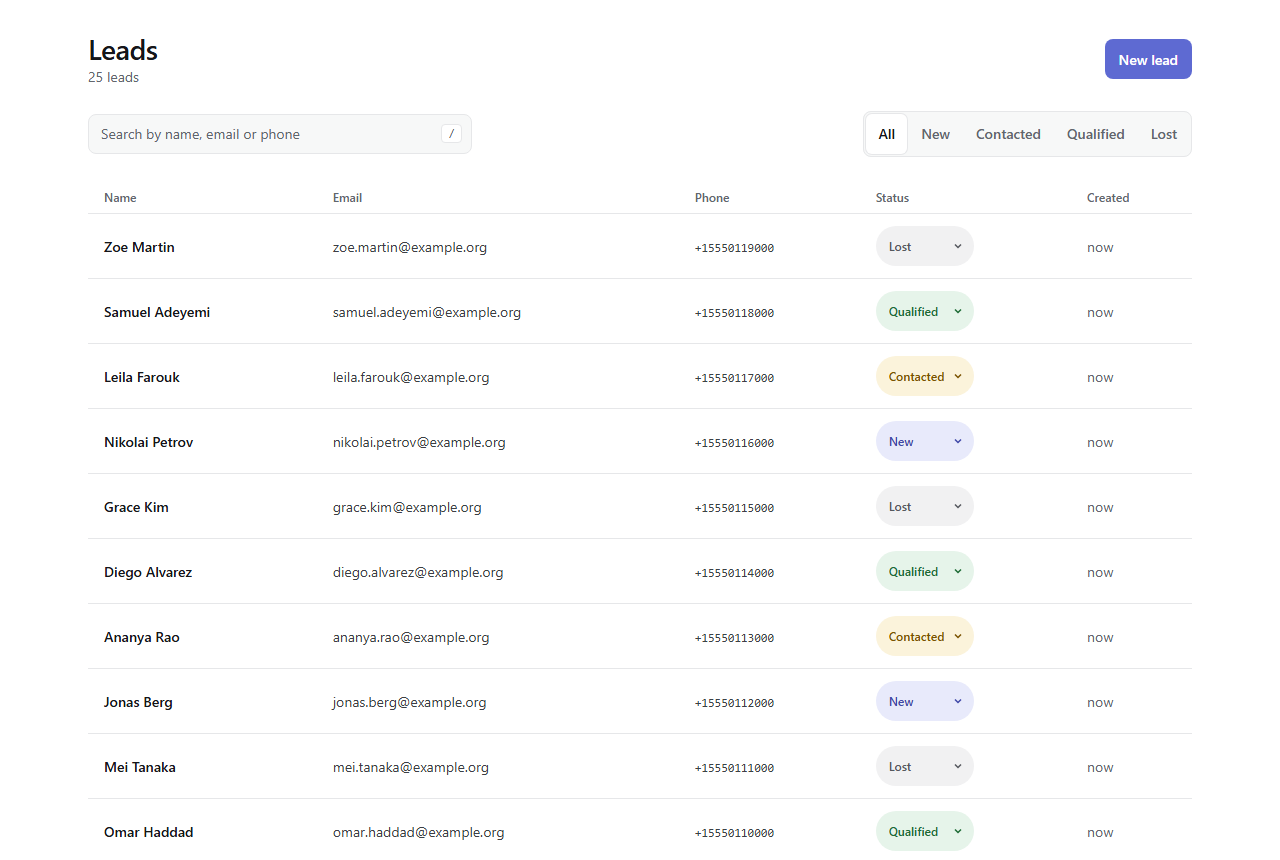
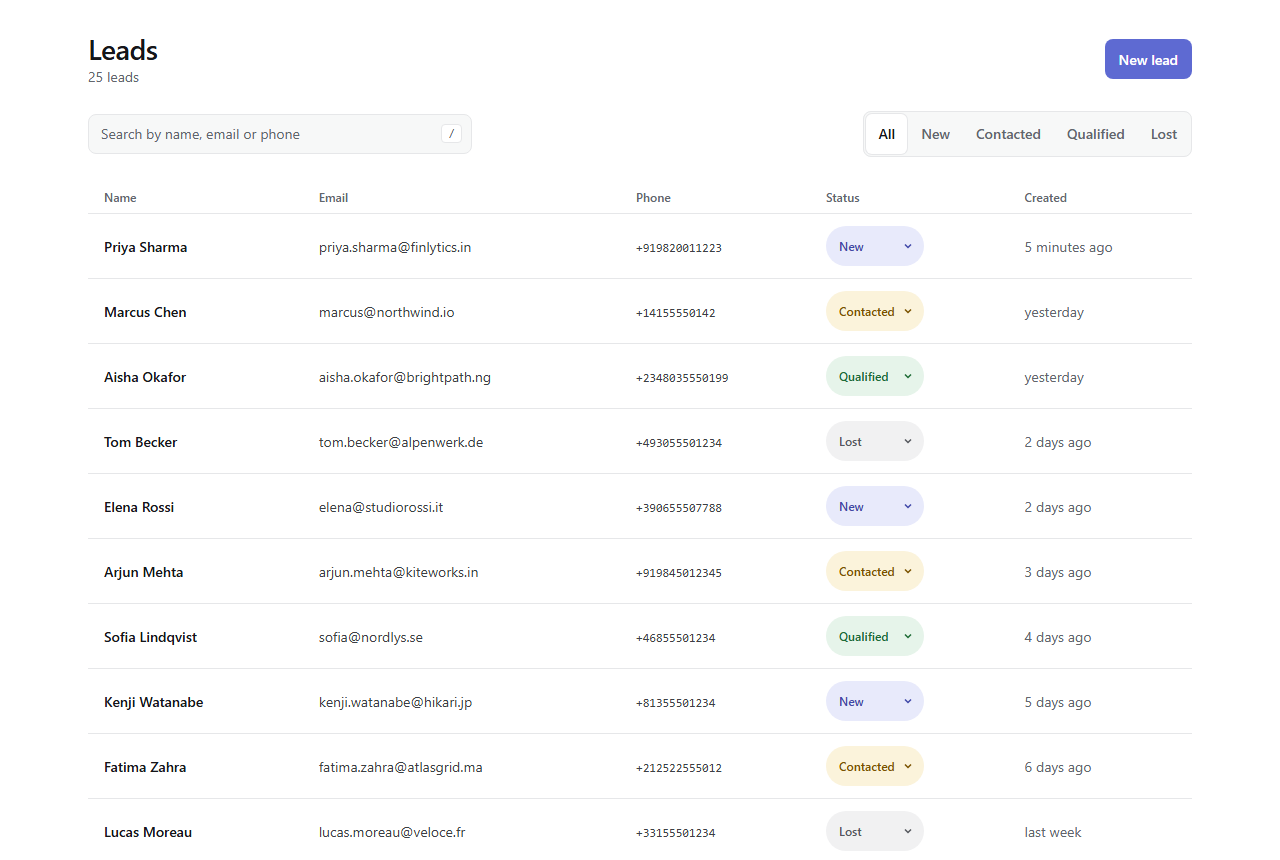
docs: write README with architecture, setup, deployment and trade-offs

diff --git a/README.md b/README.md
@@ -1,3 +1,281 @@
 # Lead Tracker
 
-A small CRM-style tracker to create, list, search and update the status of sales leads.
+[![CI](https://github.com/i-sayankh/lead-tracker/actions/workflows/ci.yml/badge.svg)](https://github.com/i-sayankh/lead-tracker/actions/workflows/ci.yml)
+
+A small CRM-style lead tracker: create leads, list them newest first, search by name, email or phone, filter by status, and move a lead through the pipeline with an inline status change. React + TypeScript on the front, FastAPI + PostgreSQL on the back, with request and response types generated end to end from one source.
+
+**Live links**
+
+| | URL |
+|---|---|
+| App | https://lead-tracker-mauve.vercel.app |
+| API docs (Swagger UI) | https://lead-tracker-orv1.onrender.com/docs |
+| API docs (ReDoc) | https://lead-tracker-orv1.onrender.com/redoc |
+| Health check | https://lead-tracker-orv1.onrender.com/api/v1/health |
+
+> The API runs on Render's free tier, which sleeps when idle. The first request after a quiet period can take up to about 50 seconds; the app shows a "waking up the server" notice while it waits.
+
+## Screenshots
+
+| Desktop | Mobile (375px) |
+|---|---|
+| ![Lead list on desktop](docs/screenshots/app-desktop.png) | ![Lead list on mobile](docs/screenshots/app-mobile.png) |
+
+| Swagger UI | ReDoc |
+|---|---|
+| ![Swagger UI for POST /api/v1/leads](docs/screenshots/swagger.png) | ![ReDoc for POST /api/v1/leads](docs/screenshots/redoc.png) |
+
+## Features
+
+- **Create lead** in a dialog with Name, Email, Phone and Status. Validation runs in the browser (on blur and on submit) and again on the server; server errors are shown under the matching field, and a duplicate email (compared case-insensitively) shows "A lead with this email already exists".
+- **List leads** newest first, 20 per page, with "Showing 21–40 of 57" pagination.
+- **Search** by any part of a name, email or phone number. Case-insensitive, debounced (300 ms), and previous requests are cancelled so results never arrive out of order. Phone search ignores spaces, dashes, dots and parentheses, so `98200 11223` finds `+919820011223`. Press `/` to jump to the search box.
+- **Filter by status** (All, New, Contacted, Qualified, Lost), combinable with search.
+- **Update status inline** from a status pill in each row. The change shows immediately, the row's control is disabled while saving, and it rolls back with an error toast if the server rejects it.
+- **Shareable views**: search, filter and page live in the URL (`?q=acme&status=qualified&page=2`) and survive a refresh.
+- **Clear states** for loading (skeleton rows), an empty database, no search results, errors (with Retry), and a free-tier cold start.
+- **Accessible and responsive**: labelled controls, visible focus rings, text labels on every status color, contrast ≥ 4.5:1, all controls at least 40px tall, a skip link, `prefers-reduced-motion`, light and dark themes following the OS, and a stacked card layout below 640px.
+
+## Architecture
+
+```mermaid
+flowchart LR
+    B[Browser] -->|HTTPS| V["Vercel<br/>React SPA (static)"]
+    B -->|"fetch /api/v1/... (CORS)"| R["Render<br/>FastAPI + Uvicorn"]
+    R -->|"SQLAlchemy 2.0<br/>psycopg 3, TLS"| N[("Neon<br/>PostgreSQL")]
+```
+
+The browser loads the static single-page app from Vercel and calls the API on Render directly. CORS on the API allows only the listed front-end origins. The API talks to Postgres on Neon, and Alembic migrations run on every deploy before the server starts.
+
+### Repository layout
+
+```
+lead-tracker/
+├── backend/                  FastAPI service (deployed to Render)
+│   ├── app/
+│   │   ├── main.py           app factory: metadata, CORS, middleware, routers
+│   │   ├── config.py         settings from environment (pydantic-settings)
+│   │   ├── db.py             engine, session, get_db dependency
+│   │   ├── models.py         SQLAlchemy model: Lead
+│   │   ├── schemas.py        every Pydantic request/response model
+│   │   ├── errors.py         error codes, error envelope, handlers, OpenAPI error docs
+│   │   ├── services.py       create, list/search, update status
+│   │   ├── routers/          leads.py, health.py
+│   │   └── export_openapi.py writes backend/openapi.json
+│   ├── alembic/              hand-written migration
+│   ├── scripts/seed.py       idempotent demo data
+│   ├── tests/                pytest against real Postgres
+│   └── openapi.json          generated; CI fails if it is stale
+├── frontend/                 React + Vite + TypeScript (deployed to Vercel)
+│   ├── DESIGN.md             design system (Linear, adapted for this app)
+│   └── src/
+│       ├── api/schema.d.ts   generated from backend/openapi.json
+│       ├── api/client.ts     typed fetch wrapper + ApiError
+│       ├── hooks/            useLeads, useUrlState, useDebouncedValue, useToasts
+│       ├── components/       LeadForm, LeadTable, StatusSelect, Toolbar, Pagination, Toasts, EmptyState
+│       └── __tests__/        Vitest + Testing Library
+├── .github/workflows/ci.yml
+├── docker-compose.yml        local Postgres only
+└── render.yaml               Render Blueprint
+```
+
+### Type-safety chain
+
+The backend's Pydantic schemas are the single source of truth for every request and response:
+
+1. `backend/app/schemas.py` and `errors.py` define the models, with descriptions and examples on every field.
+2. FastAPI turns them into an OpenAPI 3.1 spec, exported to `backend/openapi.json`.
+3. `openapi-typescript` generates `frontend/src/api/schema.d.ts` from that file.
+4. `frontend/src/api/client.ts` takes its types (`Lead`, `LeadCreate`, `LeadStatus`, `ErrorCode`, …) from the generated file. No API types are written by hand.
+
+CI regenerates both files and fails if either differs from what is committed, so a backend change that affects the API cannot land without the frontend types being updated.
+
+### Error envelope
+
+Every non-2xx response has the same shape, and clients branch on `error.code`:
+
+```json
+{
+  "error": {
+    "code": "LEAD_EMAIL_CONFLICT",
+    "message": "A lead with email 'jane@acme.com' already exists.",
+    "details": [{ "field": "body.email", "message": "Email already exists", "type": "conflict" }]
+  }
+}
+```
+
+`details` lists each invalid field for validation (422) and conflict (409) errors and is `null` otherwise. Unexpected errors return `500 INTERNAL_ERROR` without exception text (the traceback is logged server-side) and still carry CORS headers, so the browser can read them.
+
+| Status | `code` |
+|---|---|
+| 404 | `LEAD_NOT_FOUND`, `ROUTE_NOT_FOUND` |
+| 405 | `METHOD_NOT_ALLOWED` |
+| 409 | `LEAD_EMAIL_CONFLICT` |
+| 422 | `VALIDATION_ERROR` |
+| 500 | `INTERNAL_ERROR` |
+| 503 | `SERVICE_UNAVAILABLE` |
+
+### API summary
+
+All routes are under `/api/v1`. Full schemas, parameter bounds and named examples for every error are in [Swagger UI](https://lead-tracker-orv1.onrender.com/docs) and [ReDoc](https://lead-tracker-orv1.onrender.com/redoc).
+
+| Method | Path | Success | Errors |
+|---|---|---|---|
+| `POST` | `/leads` | `201` Lead | `409` duplicate email, `422` invalid body, `500` |
+| `GET` | `/leads?q=&status=&limit=&offset=` | `200` page of leads + `total` | `422` invalid query, `500` |
+| `PATCH` | `/leads/{lead_id}/status` | `200` updated Lead | `404` unknown lead, `422` invalid id or body, `500` |
+| `GET` | `/health` | `200` `{"status":"ok","database":"ok"}` | `503` database unreachable |
+
+Lead fields: `id` (UUID), `name` (1–100 chars), `email` (unique, stored lowercase), `phone` (stored normalized: optional `+` and 7–15 digits), `status` (`new` \| `contacted` \| `qualified` \| `lost`, default `new`), `created_at` (ISO 8601 with offset). `limit` is 1–100 (default 20) and `offset` is 0–1,000,000.
+
+## Tech stack
+
+| Layer | Choice | Why |
+|---|---|---|
+| API | FastAPI 0.141 | Typed request/response models, generated OpenAPI, dependency injection for the DB session |
+| Validation | Pydantic 2 + `email-validator` | One set of models validates input, serializes output and documents the API |
+| ORM / migrations | SQLAlchemy 2.0 (sync) + Alembic | Typed `Mapped[...]` models; migrations written by hand for the native enum |
+| Database | PostgreSQL 16 (Neon in production) | Native enum, `gen_random_uuid()`, `TIMESTAMPTZ`, `ILIKE`; Neon's free tier doesn't expire |
+| Driver | psycopg 3 | Current Postgres driver for SQLAlchemy 2 |
+| Backend tooling | uv, ruff, mypy (strict), pytest | Locked, reproducible installs; lint, format and type checks in CI |
+| Frontend | React 19 + TypeScript (strict, `noUncheckedIndexedAccess`) + Vite 8 | Fast builds; strict types catch missing-data cases |
+| Styling | Tailwind CSS v4 with design tokens as CSS variables | Tokens from `frontend/DESIGN.md`; light and dark themes from one set of variables |
+| API types | openapi-typescript | Frontend types generated from the backend spec |
+| Frontend tests | Vitest + Testing Library + jsdom | Tests run against rendered components with `fetch` mocked |
+| Frontend lint | oxlint | Default linter of the current Vite template; includes React hooks rules |
+| Hosting | Vercel (frontend), Render (API), Neon (DB) | Free tiers that deploy from a subdirectory of one repository |
+
+No router, state-management, UI-kit, date or toast library: the app is a single screen, dates use `Intl`, and toasts are a small component plus a hook (about 85 lines).
+
+## Setup instructions (local)
+
+**Prerequisites:** Git, Docker (for the local database), Python 3.12, [uv](https://docs.astral.sh/uv/) (`pip install uv`), Node.js 22 or newer.
+
+```bash
+git clone https://github.com/i-sayankh/lead-tracker.git
+cd lead-tracker
+
+# 1. Database: Postgres 16 on localhost:5432 with databases "leads" and "leads_test"
+docker compose up -d db
+```
+
+**Backend** (in a first terminal):
+
+```bash
+cd backend
+uv sync                              # creates .venv with runtime + dev dependencies
+cp .env.example .env                 # points at the local "leads" database
+uv run alembic upgrade head          # creates the leads table
+uv run python -m scripts.seed        # optional: 25 demo leads
+uv run uvicorn app.main:app --reload # http://localhost:8000/docs
+```
+
+**Frontend** (in a second terminal):
+
+```bash
+cd frontend
+npm ci
+cp .env.example .env                 # VITE_API_BASE_URL=http://localhost:8000
+npm run dev                          # http://localhost:5173
+```
+
+**Running the tests and checks**
+
+```bash
+# backend (needs the docker database; uses the separate leads_test database)
+cd backend
+uv run pytest
+uv run ruff check . && uv run ruff format --check .
+uv run mypy app scripts
+
+# frontend
+cd frontend
+npm test -- --run
+npm run typecheck
+npm run lint
+npm run build
+```
+
+**Regenerating the API types** after changing a backend schema or route:
+
+```bash
+cd backend && uv run python -m app.export_openapi   # writes backend/openapi.json
+cd ../frontend && npm run gen:api                   # writes src/api/schema.d.ts
+```
+
+Commit both files; CI fails if they are out of date.
+
+## Environment variables
+
+**Backend** (`backend/.env`, or the Render dashboard)
+
+| Variable | Required | Default | Description |
+|---|---|---|---|
+| `DATABASE_URL` | yes | | Postgres connection string. `postgres://` and `postgresql://` are rewritten to `postgresql+psycopg://`, so Neon and Render strings can be pasted as-is. |
+| `CORS_ORIGINS` | no | `http://localhost:5173` | Comma-separated browser origins allowed to call the API. `*` is rejected at startup. |
+| `ENVIRONMENT` | no | `development` | `development`, `test` or `production`. |
+| `TEST_DATABASE_URL` | no | `postgresql+psycopg://postgres:postgres@localhost:5432/leads_test` | Database used by `pytest`. The suite migrates it and empties the `leads` table after each test, so never point it at real data. |
+
+**Frontend** (`frontend/.env`, or the Vercel dashboard)
+
+| Variable | Required | Description |
+|---|---|---|
+| `VITE_API_BASE_URL` | yes | Base URL of the API, without a trailing slash, e.g. `https://lead-tracker-orv1.onrender.com`. The app refuses to start without it. Read at build time, so redeploy after changing it. |
+
+## Deployment steps
+
+The app runs on three free services: Neon (database), Render (API) and Vercel (frontend).
+
+1. **Neon (Postgres).** Create a project and copy the **pooled** connection string, keeping `?sslmode=require`. Neon's free tier doesn't expire; Render's free Postgres is deleted after 30 days, which is why it isn't used.
+2. **Render (API).** Either use **New → Blueprint** and select this repository (it reads `render.yaml`), or create a **Web Service** from the repository with these settings:
+
+   | Setting | Value |
+   |---|---|
+   | Root Directory | `backend` |
+   | Runtime | Python |
+   | Build Command | `pip install uv && uv sync --frozen --no-dev` |
+   | Start Command | `uv run --no-dev alembic upgrade head && uv run --no-dev uvicorn app.main:app --host 0.0.0.0 --port $PORT` |
+   | Health Check Path | `/api/v1/health` |
+
+   Environment: `PYTHON_VERSION=3.12.13`, `ENVIRONMENT=production`, `DATABASE_URL=<Neon string>`, `CORS_ORIGINS=http://localhost:5173` for now. Deploy, then check `https://<service>.onrender.com/api/v1/health` returns `{"status":"ok","database":"ok"}`.
+
+   Don't add a `requirements.txt`: Render would install from it instead of from `uv.lock`.
+3. **Vercel (frontend).** Add a new project from the repository with Root Directory `frontend` and framework preset Vite, and set `VITE_API_BASE_URL=https://<service>.onrender.com`. After deploying, use the project's **production domain** (Settings → Domains). The per-deployment URLs are behind Vercel Authentication by default and show visitors a login page.
+4. **Connect them.** On Render, set `CORS_ORIGINS` to the Vercel production URL (add `,http://localhost:5173` if you want to run the frontend locally against production). Saving triggers a redeploy.
+5. **Demo data (optional).** Run `uv run python -m scripts.seed` locally with `DATABASE_URL` set to the Neon string. Re-running it skips leads that already exist.
+
+Both services redeploy automatically when `main` changes.
+
+## Testing
+
+| Suite | Count | What it covers |
+|---|---|---|
+| Backend, pytest against real PostgreSQL | 59 tests | Create (all fields, lowercasing and phone normalization, case-insensitive duplicate 409, every 422 case including malformed JSON and unknown fields); list (empty, order, pagination and `total`, search by name/email/phone, phone typed with separators, `%` and `_` matched literally, status filter, filter + search, every out-of-range parameter); status update (persistence, idempotency, 404, every 422 case); health (200, 503, 500 without leaking exception text, CORS headers on 500); settings (URL normalization, CORS parsing, `*` rejected); seed idempotency; and an **OpenAPI contract test** that fails if any operation lacks a summary, description or named error examples, if any schema field lacks a description, or if FastAPI's default `HTTPValidationError` reappears. |
+| Frontend, Vitest + Testing Library | 20 tests | API client (error envelope → `ApiError`, network failure, non-JSON responses, aborts); create form (client validation, 409 under Email, server detail mapping, trimmed payload, closes on success); status select (optimistic change, rollback + error toast); app (empty state, no-results + Clear filters, debounced search with fake timers, error state replacing stale rows, no empty-state flash while loading, filters cleared after create, late responses from a closed form ignored). |
+| CI (GitHub Actions) | every push | Backend: ruff, ruff format, mypy strict, migrations, pytest against a Postgres 16 service, OpenAPI drift check. Frontend: generated-types drift check, typecheck, lint, tests, production build. |
+| Browser (Playwright, run manually) | desktop 1280px + mobile 375px | The full flow on the live deployment: create, duplicate email, search, filter, paginate, status change surviving a reload, no control under 40px, no horizontal overflow, no console or CORS errors. |
+
+Why not SQLite for tests: `ILIKE`, native enums, `gen_random_uuid()` and `TIMESTAMPTZ` behave differently or don't exist there, so the tests run against the same database engine as production.
+
+## Trade-offs
+
+- **No authentication.** The brief doesn't ask for it, and the app assumes a single trusted operator working with demo data. Anyone with the URL can read and add leads.
+- **Synchronous SQLAlchemy.** FastAPI runs sync endpoints in a thread pool, which is plenty at this scale and simpler to write and test than the async stack.
+- **Offset pagination.** Simple, and gives "page N of M", but deep pages get slower because Postgres still walks the skipped rows. `offset` is capped at 1,000,000.
+- **`ILIKE` substring search.** A `%term%` pattern can't use a normal B-tree index, so every search scans the table. Fine for thousands of rows, not millions.
+- **Any status can move to any other status.** There is no enforced pipeline order (e.g. `lost` can go back to `new`), and setting the same status again is an idempotent success.
+- **Free-tier hosting.** Render sleeps after inactivity, so the first request can take up to ~50 s; the UI says so instead of looking broken.
+- **No delete, edit or detail page.** Kept to the four features in the brief.
+- **A status change under an active filter keeps the row in place** until the next refresh, so rows don't vanish while you're working on them. The count can be briefly stale.
+
+## Future improvements
+
+- Authentication and role-based access (e.g. admins vs. sales reps).
+- A status transition state machine, with an activity/audit history per lead (who changed what, when).
+- A `pg_trgm` GIN index for fast substring search at scale.
+- Keyset (cursor) pagination for large tables.
+- Lead detail and edit pages, and delete with undo.
+- Request IDs and structured JSON logging.
+- Rate limiting on the public API.
+- End-to-end browser tests (Playwright) in CI against a preview deployment.
+- CSV import and export.

diff --git a/AGENT.md b/AGENT.md
@@ -91,3 +91,5 @@ _To be finalized._
   - Security checklist: only `.env.example` files are tracked; no raw SQL built from input (SQLAlchemy parameters, `ILIKE` input escaped); no `dangerouslySetInnerHTML`; 500s never include exception text; CORS is an explicit allowlist with credentials off. Hardening added: `Settings` now rejects `CORS_ORIGINS` containing `*` (test first).
 - **Step 6.1 — deployment config.** `render.yaml` Blueprint (Python 3.12.13 pinned, health check `/api/v1/health`, `DATABASE_URL`/`CORS_ORIGINS` as `sync: false` secrets). Deviation from the plan's start command: `uv run --no-dev ...` instead of `uv run ...`, because `uv run` syncs the default dependency groups and would reinstall the dev tools on every boot after a `--no-dev` build; verified locally by building with `--no-dev` and checking `pytest` is absent after `uv run --no-dev`. Defect caught while preparing this step: the local virtualenv was running Python 3.14 (the `.python-version` file created by `uv init` had been deleted during scaffolding, so uv picked the newest interpreter) while CI and Render use 3.12; restored `backend/.python-version` = 3.12 and re-ran the suite on 3.12.3 (58 passed, `openapi.json` unchanged). No `vercel.json`: the SPA has one route and Vercel's root directory and framework are set in the dashboard.
 - **Step 6.3 — demo seed script.** Written before the deployment checkpoint because it does not depend on it. `backend/scripts/seed.py` inserts 25 leads across all four statuses with `created_at` spread over the last 30 days, using `INSERT ... ON CONFLICT ON CONSTRAINT uq_leads_email DO NOTHING`, so re-running skips existing emails; a test runs it twice and checks the second run inserts nothing. CI's mypy step now also checks `scripts/`.
+- **Step 6.2 — deployment (user action).** The first Render build failed: a `backend/requirements.txt` produced by `pip freeze` of a global Windows Python (184 packages, including `pywin32`, missing `psycopg`, saved as UTF-16) had been committed, and the service had been created as a plain Web Service, so Render ran `pip install -r requirements.txt` instead of the `uv` commands in `render.yaml`. At the user's request the commit was removed from `main` (reset and `--force-with-lease`), and the service was pointed at the Blueprint's build/start commands. The first Vercel URL shared was a per-deployment URL behind Vercel Authentication (it redirected to a login page); the public production domain was used instead. Verified live: health, `/docs`, `/redoc`, CORS preflight from the production origin, then the full Playwright flow at 1280px and 375px against the live site with no console or CORS errors. One mobile search count looked wrong (20 rows instead of 1); a condition-based re-check showed it settles to 1 row after ~460 ms, so the script's fixed 500 ms wait was the cause, not the app. Production was seeded with the 25 demo leads with the user's explicit OK; the two QA leads created by the browser run were deleted afterwards.
+- **Step 7.1 — README.** Screenshots re-taken from the live site (the seed spreads `created_at` over 30 days, so relative dates read naturally). A draft sentence claimed the toast was a 40-line component; counted it (≈85 lines across a component and a hook) and corrected the text.
